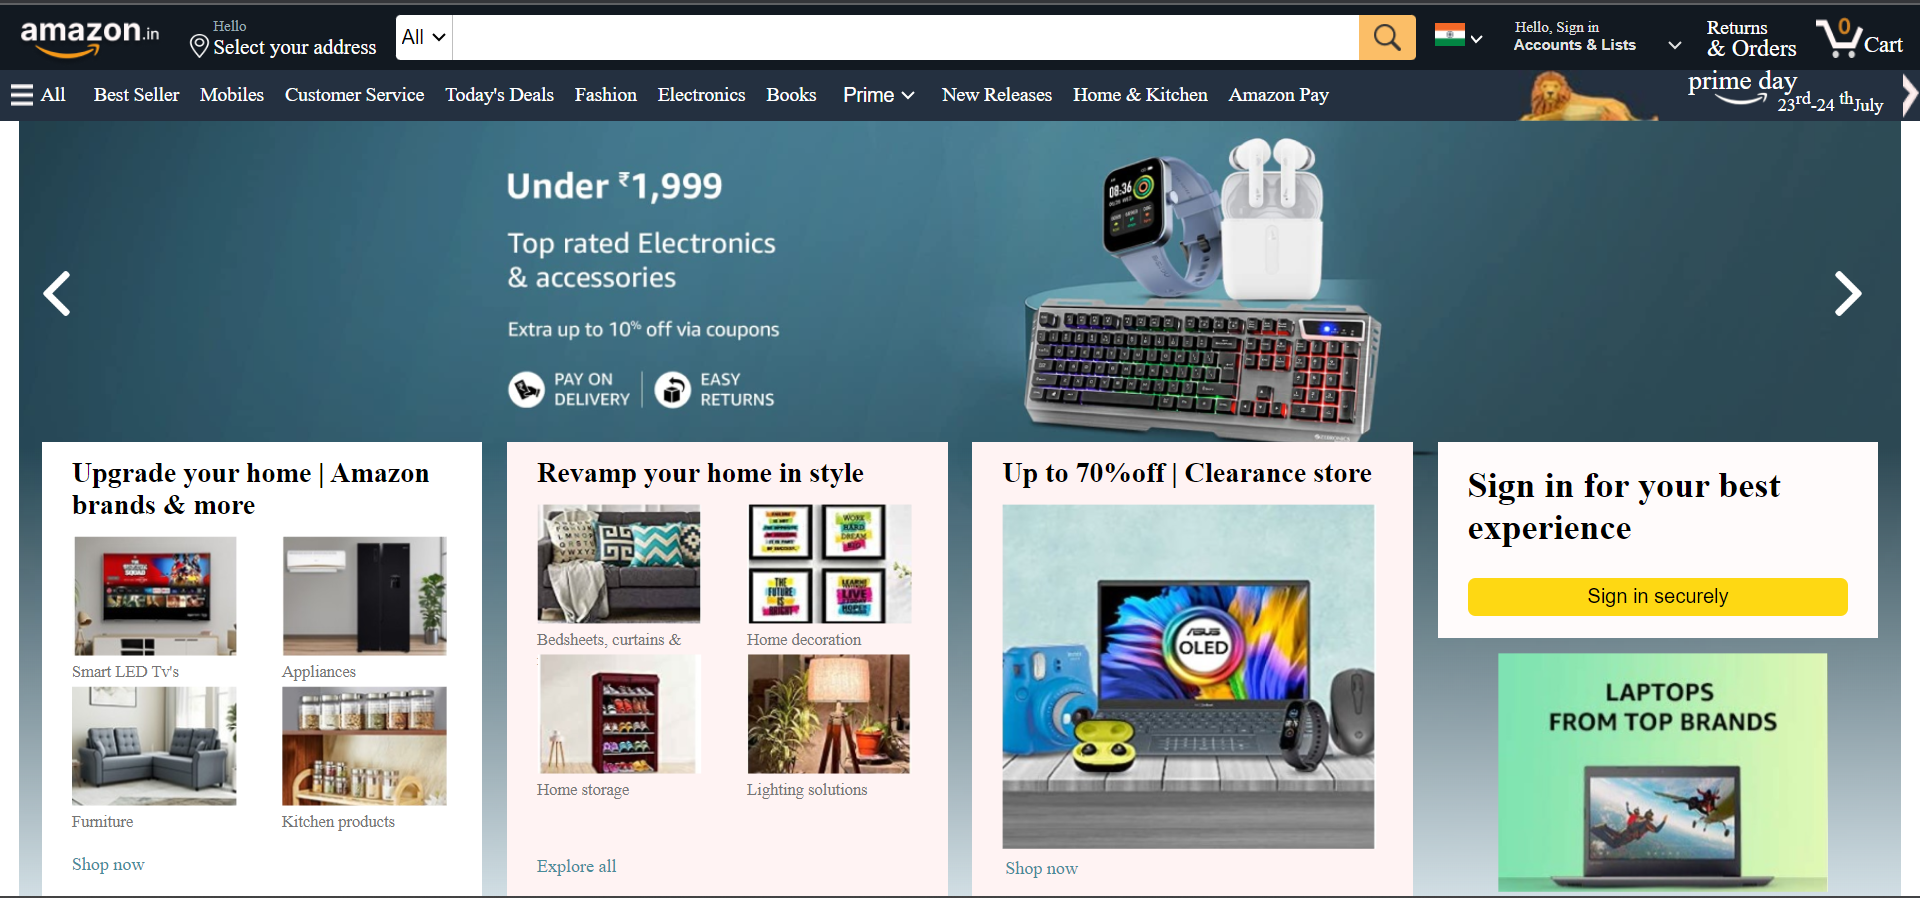
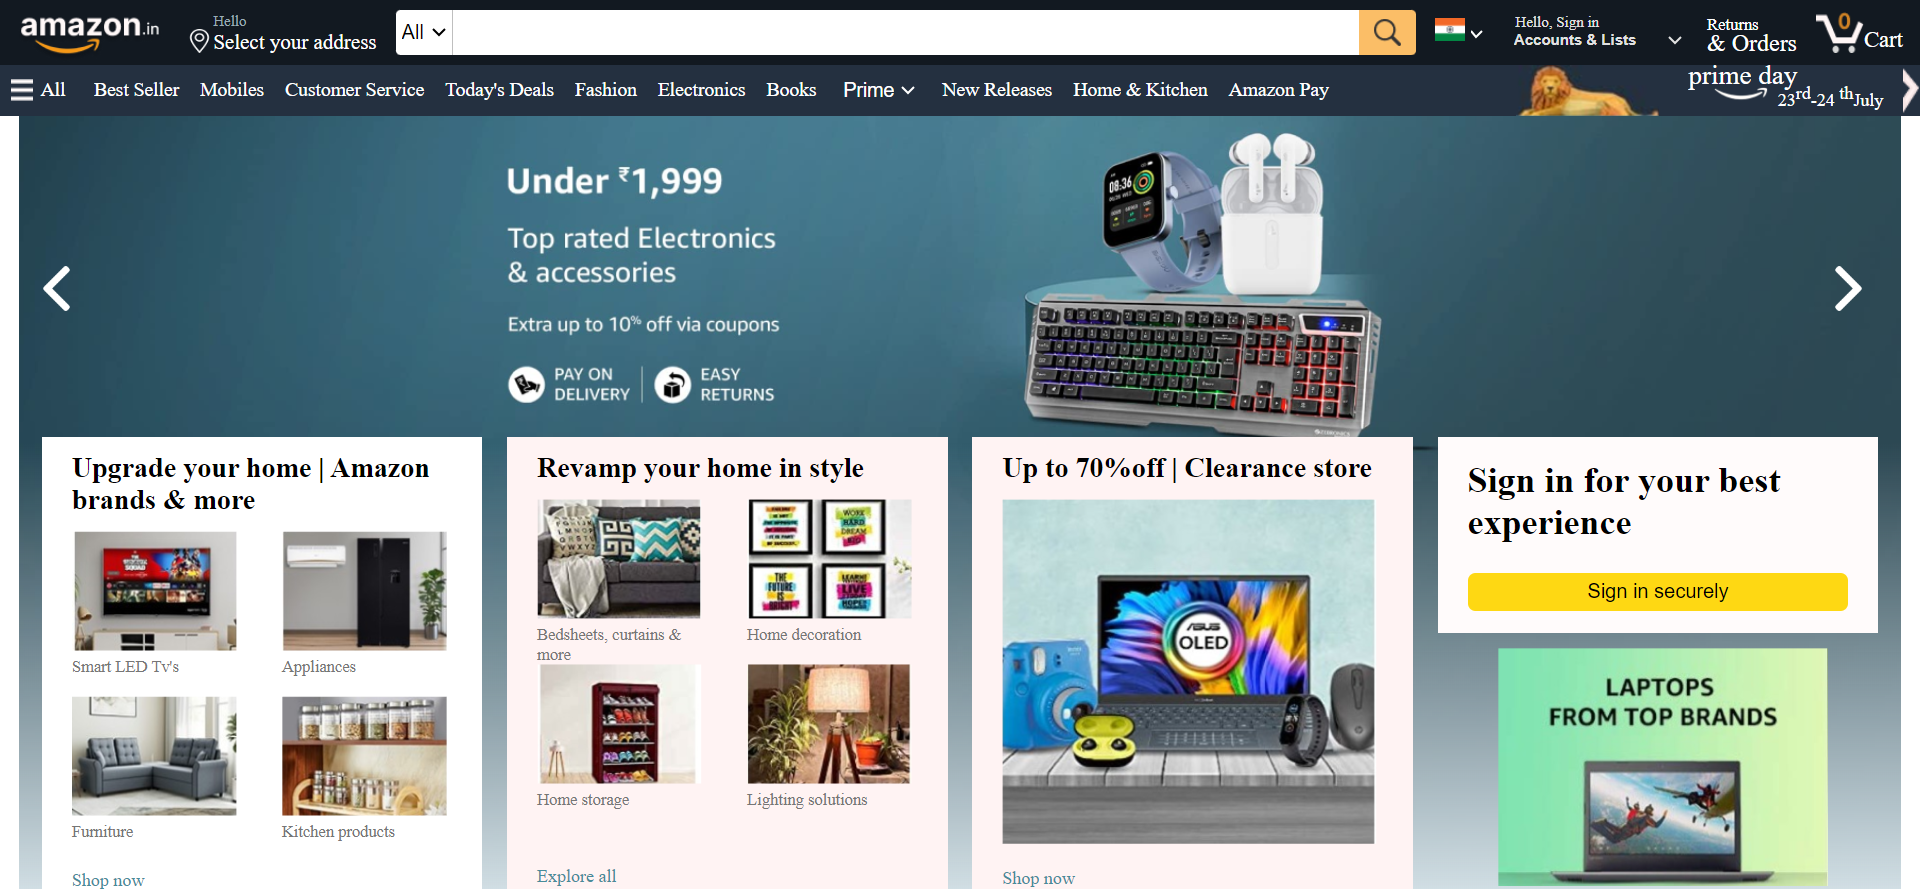
done

diff --git a/style.css b/style.css
@@ -115,10 +115,10 @@ body{
 /* return and orders */
 
 .return p{
-    line-height: 14px;
+    line-height: 12px;
 }
 .return span{
-    font-size: 13px;
+    font-size: 11px;
 }
 
 /* cart */
@@ -213,8 +213,8 @@ body{
 /* background image */
 .main{
     background-image: url(assets/background\ picture.png);
-    /* background-image: linear-gradient(-180deg,rgba(0,0,0,0),rgba(0,0,0,0)),url(assets/background\ picture.png); */
     background-size: cover;
+    background-repeat: no-repeat;
     /* width: 850px; */
     /* height: 515px; */
     width: 98%;
@@ -268,7 +268,7 @@ body{
 }
 .photos{
     width: 250px;
-    height: 200px;
+    height: 220px;
     /* border: 2px solid black; */
     display: flex;
     flex-wrap: wrap;
@@ -301,13 +301,13 @@ body{
     color: #478c9a;
     margin: 0;
     font-size: 12px;
-    margin-top: 12px;
+    margin-top: 6px;
 }
 .explore{
-    margin-top: 35px;
+    margin-top: 25px;
 }
 .shop3{
-    margin: 2px;
+    margin-top: 12px;
 
 }
 .last-box{
